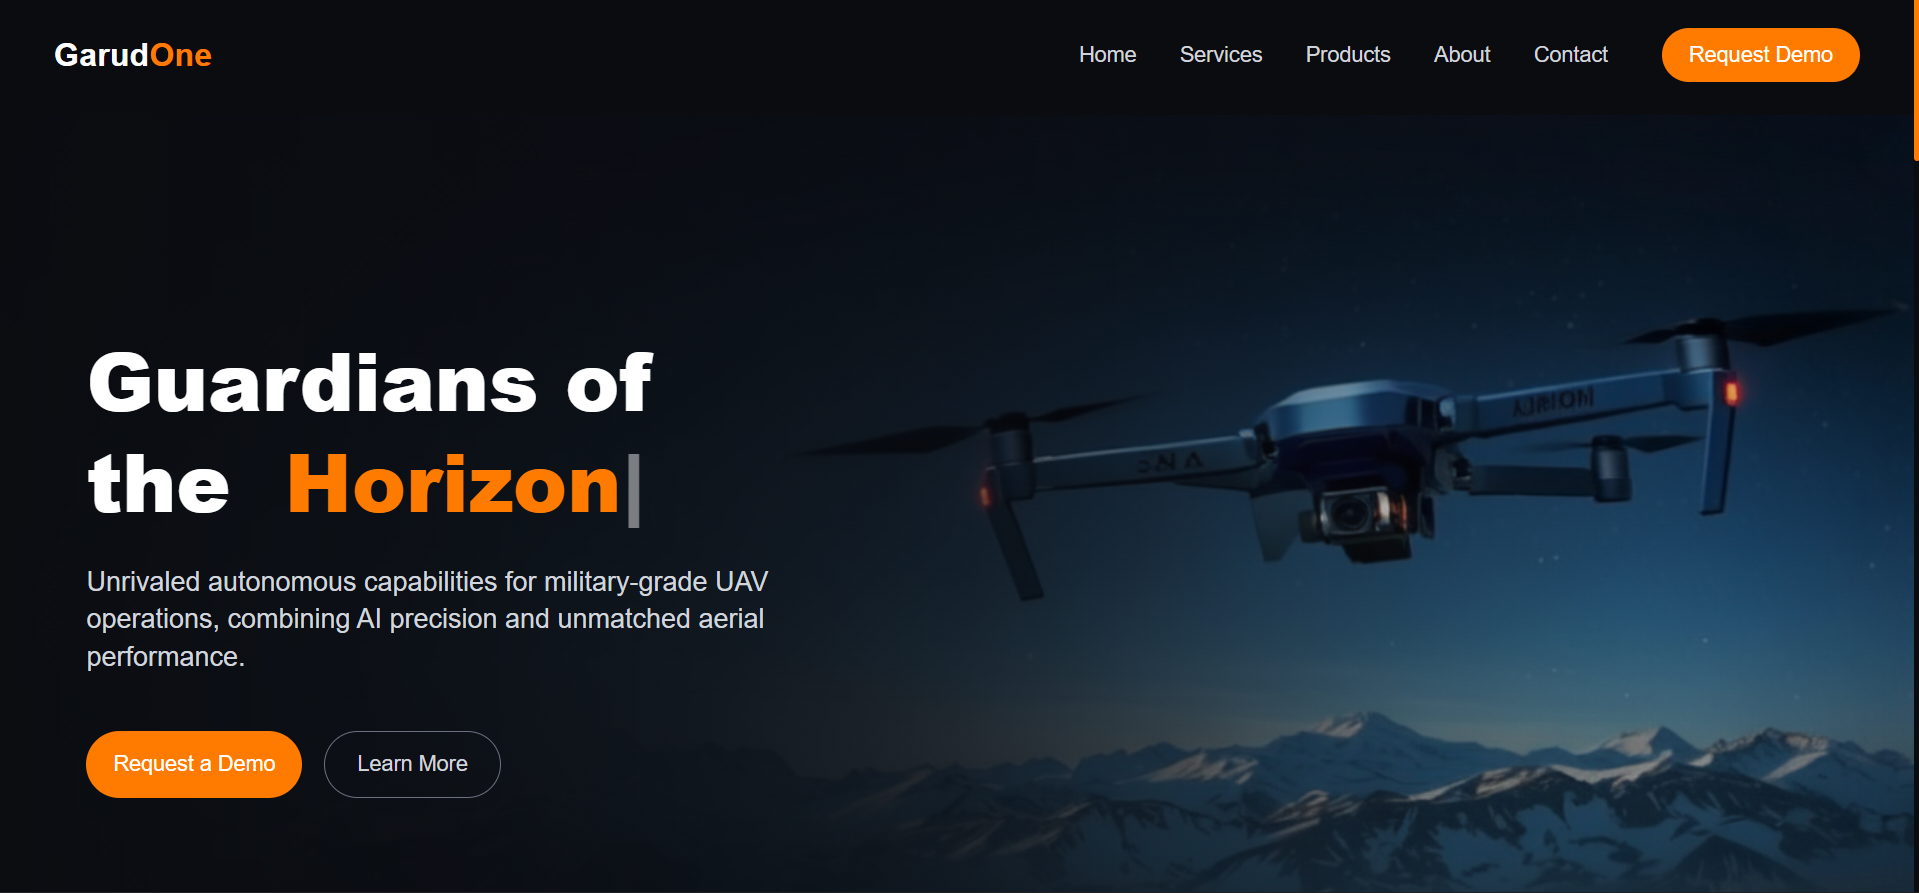
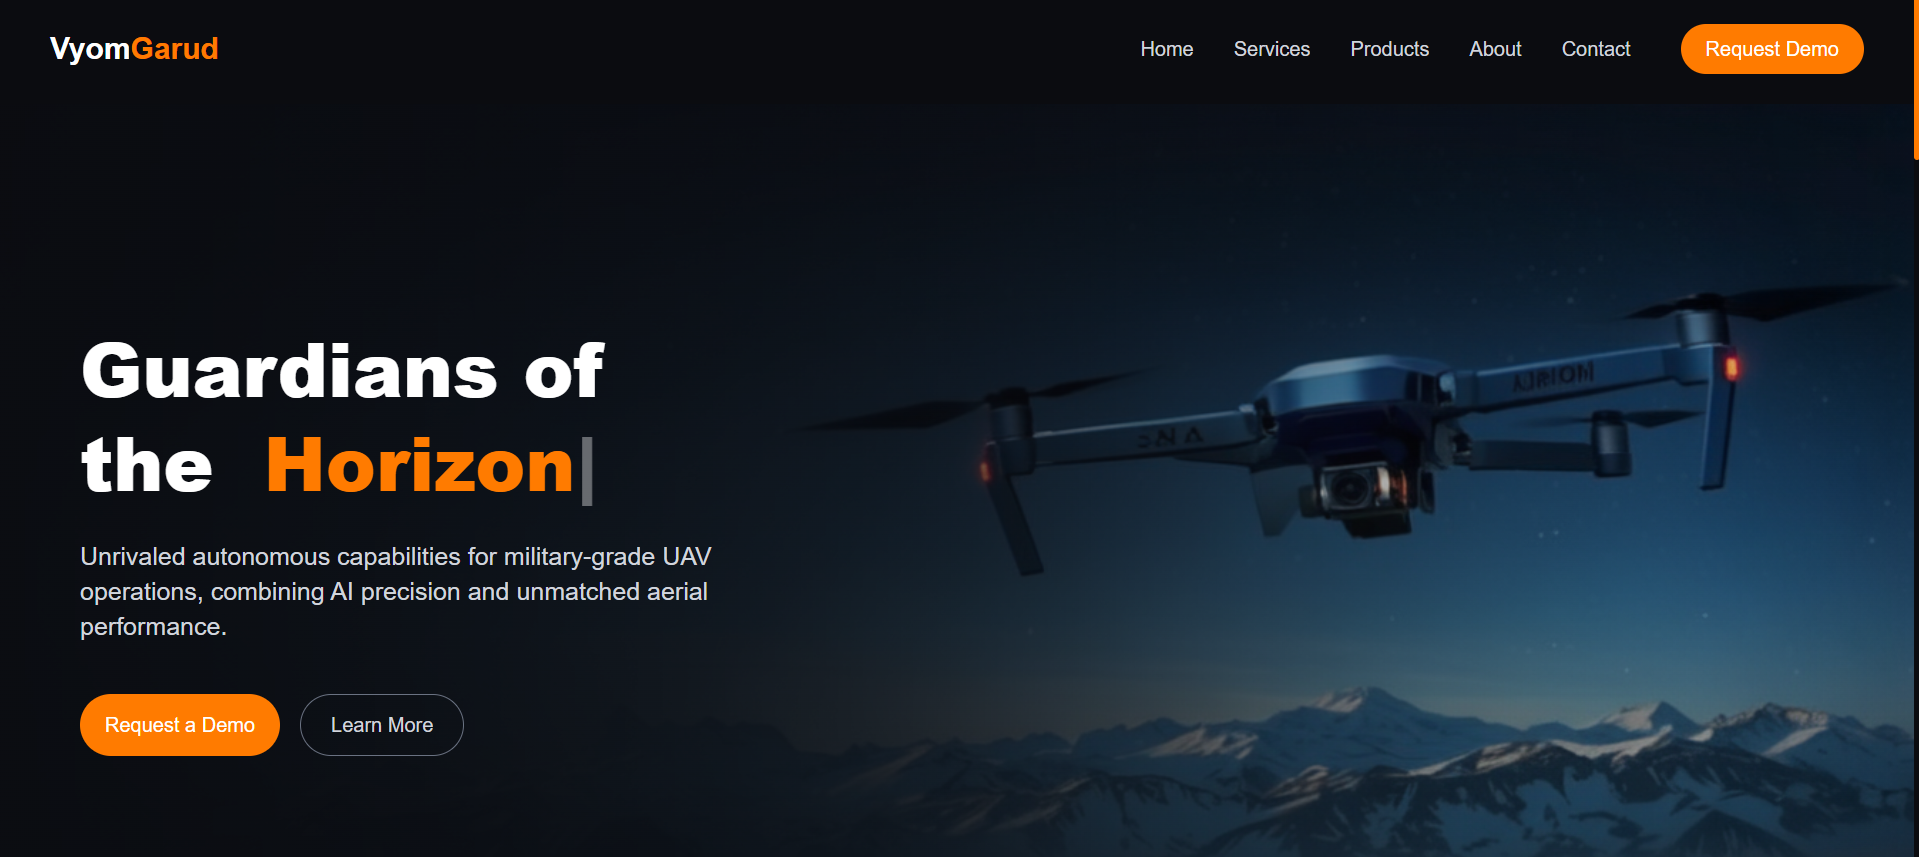
preview added and error fixed

diff --git a/src/components/sections/About.jsx b/src/components/sections/About.jsx
@@ -12,7 +12,7 @@ export default function About() {
 
                 <div className="max-w-2xl mx-auto text-center">
                     <p className="text-lg md:text-xl leading-relaxed text-gray-300">
-                        GarudOne is a next-generation UAV technology, combining AI-driven autonomy with aerospace-grade reliability. Our mission is to empower defense and industry with intelligent, resilient, and mission-ready aerial systems that safeguard horizons worldwide.
+                        VyomGarud is a next-generation UAV technology, combining AI-driven autonomy with aerospace-grade reliability. Our mission is to empower defense and industry with intelligent, resilient, and mission-ready aerial systems that safeguard horizons worldwide.
                     </p>
                 </div>
             </SectionWrapper>
